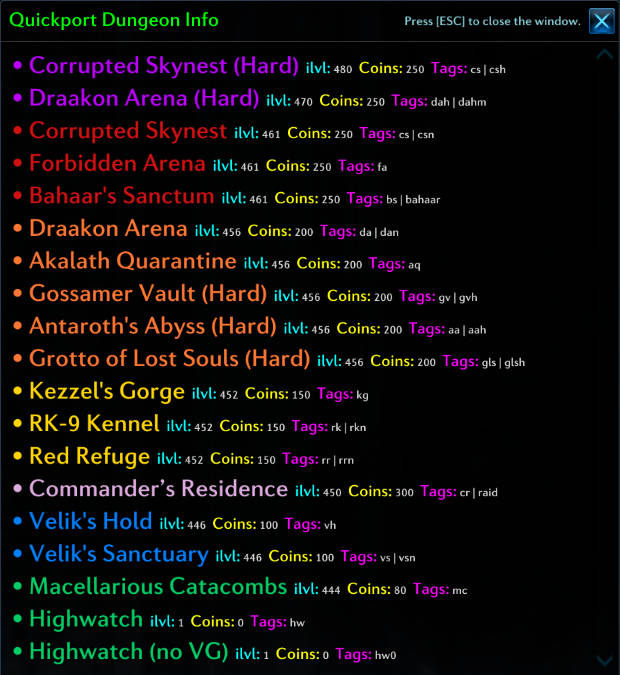
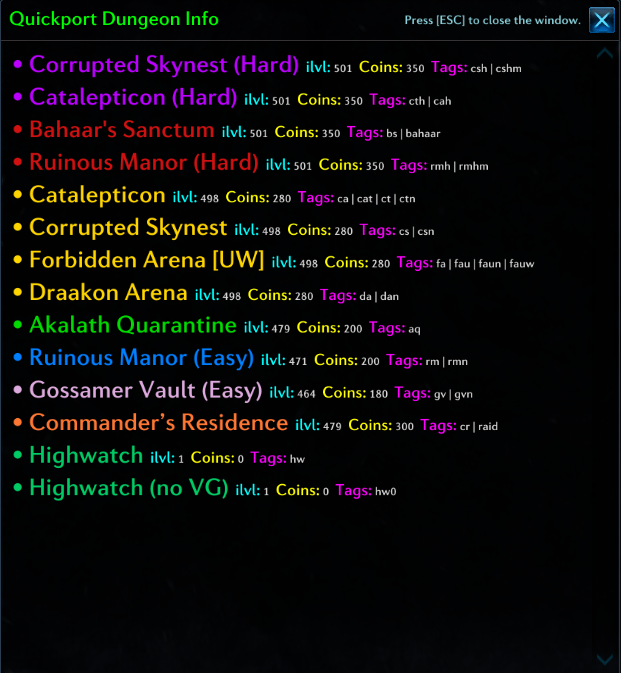
NA patch 102.2

Changed region(s): [[0.0, 0.0, 0.8581, 0.9985], [0.6435, 0.0, 1.0, 1.0], [0.6742, 0.8425, 0.7661, 0.9049]]

diff --git a/README.md b/README.md
@@ -10,10 +10,10 @@
 > TeraToolbox\data\definitions
 
 ---
-- The *definitions* above must have their opcode mapped for your region (if they are not mapped by default):
-  - NA patch **98.2** download = [protocol.373821.map](https://github.com/TerableMods/OP-codez)
+- The *definition* above must have its opcode mapped for your region, download it here:
+  - NA patch **102.2** => [protocol.373821.map](https://github.com/TerableMods/OP-codez)
 
-- The *.map* file containing your region's opcodes must be placed inside of:
+- The *.map* file in the link above, must be placed inside of:
 > TeraToolbox\data\opcodes
 
 ---
@@ -29,23 +29,18 @@
 
 |        Dungeon Name         |    Tags    |
 | ----------------------------|------------|
-| Corrupted Skynest (Hard)    | cs, csh    |
-| Draakon Arena (Hard)        | dah, dahm  |
-| Corrupted Skynest           | cs, csn    |
-| Forbidden Arena Challenge   | fa         |
+| Corrupted Skynest (Hard)    | csh, cshm  |
+| Catalepticon (Hard)         | cth, cah   |
 | Bahaar's Sanctum            | bs, bahaar |
-| Akalath Quarantine          | aq         |
+| Ruinous Manor (Hard)        | rmh, rmhm  |
+| Catalepticon                | ct, ctn    |
+| Corrupted Skynest           | cs, csn    |
+| Forbidden Arena [UW]        | fa, fau    |
 | Draakon Arena               | da, dan    |
-| Gossamer Vault (Hard)       | gv, gvh    |
-| Antaroth's Abyss (Hard)     | aa, aah    |
-| Grotto of Lost Souls (Hard) | gls, glsh  |
-| Kezzel's Gorge              | kg         |
-| RK-9 Kennel                 | rk, rkn    |
-| Red Refuge                  | rr, rrn    |
+| Akalath Quarantine          | aq         |
+| Ruinous Manor (Easy)        | rm, rmn    |
+| Gossamer Vault (Easy)       | gv, gvn    |
 | Commander's Residence       | cr, raid   |
-| Velik's Hold                | vh         |
-| Velik's Sanctuary           | vs, vsn    |
-| Macellarious Catacombs      | mc         |
 | Highwatch                   | hw         |
 | Highwatch (no Vanguards)    | hw0        |
 
@@ -61,6 +56,6 @@
 
 ---
 
-Patch Version: **98.2**
+Patch Version: **102.2**
 
 ![UI](/ui.png)
